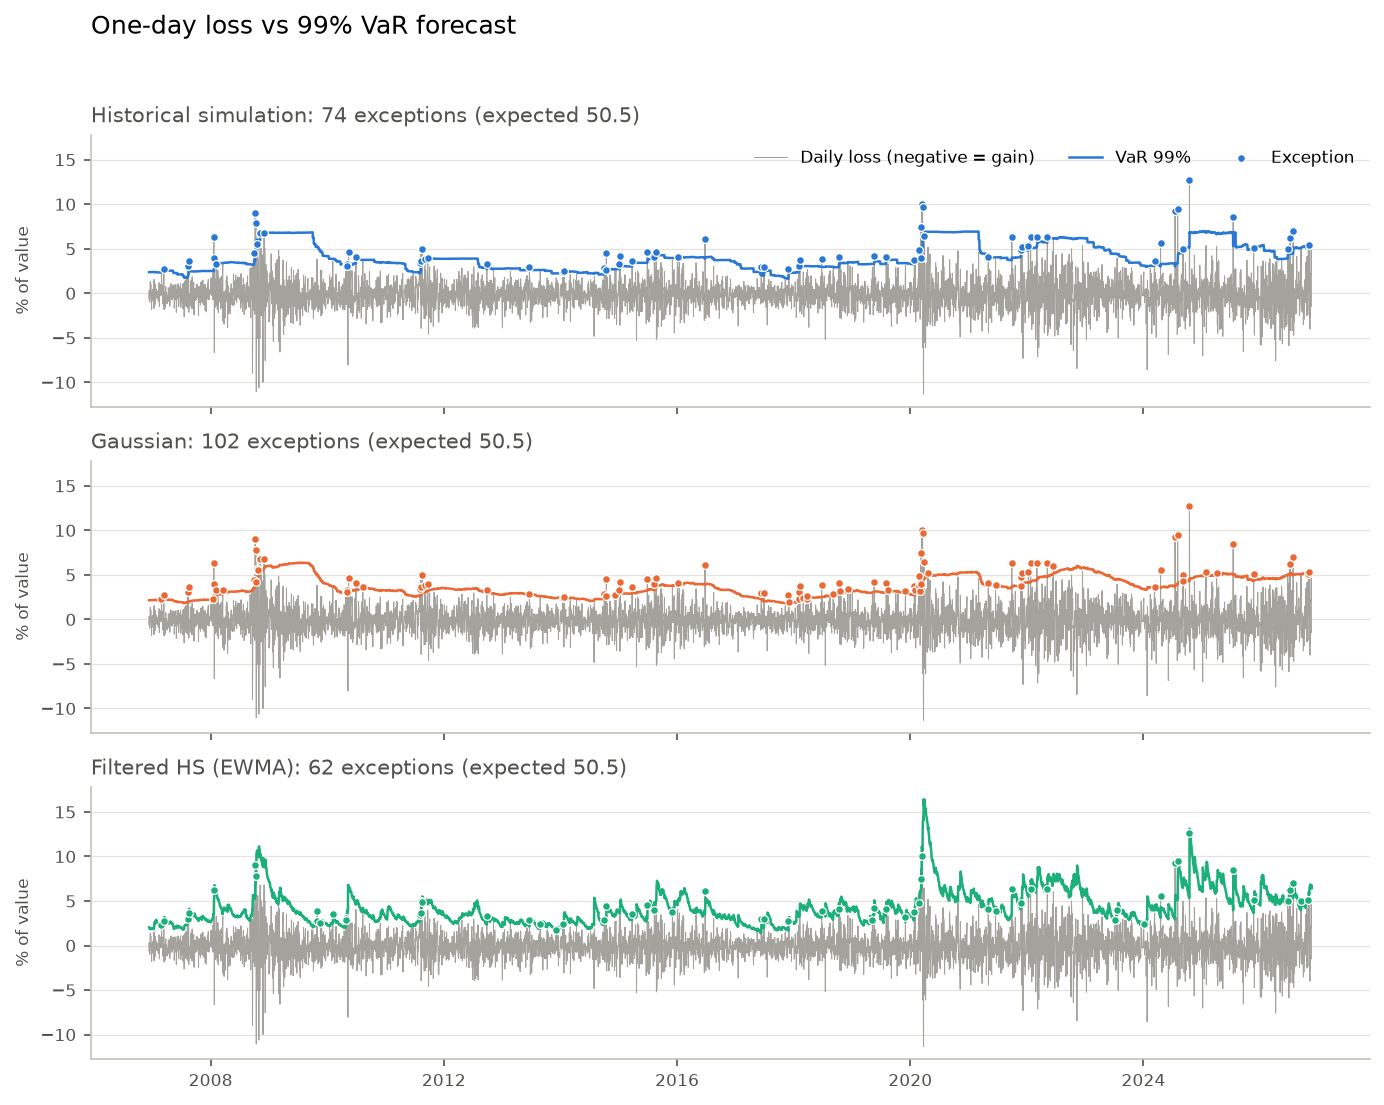
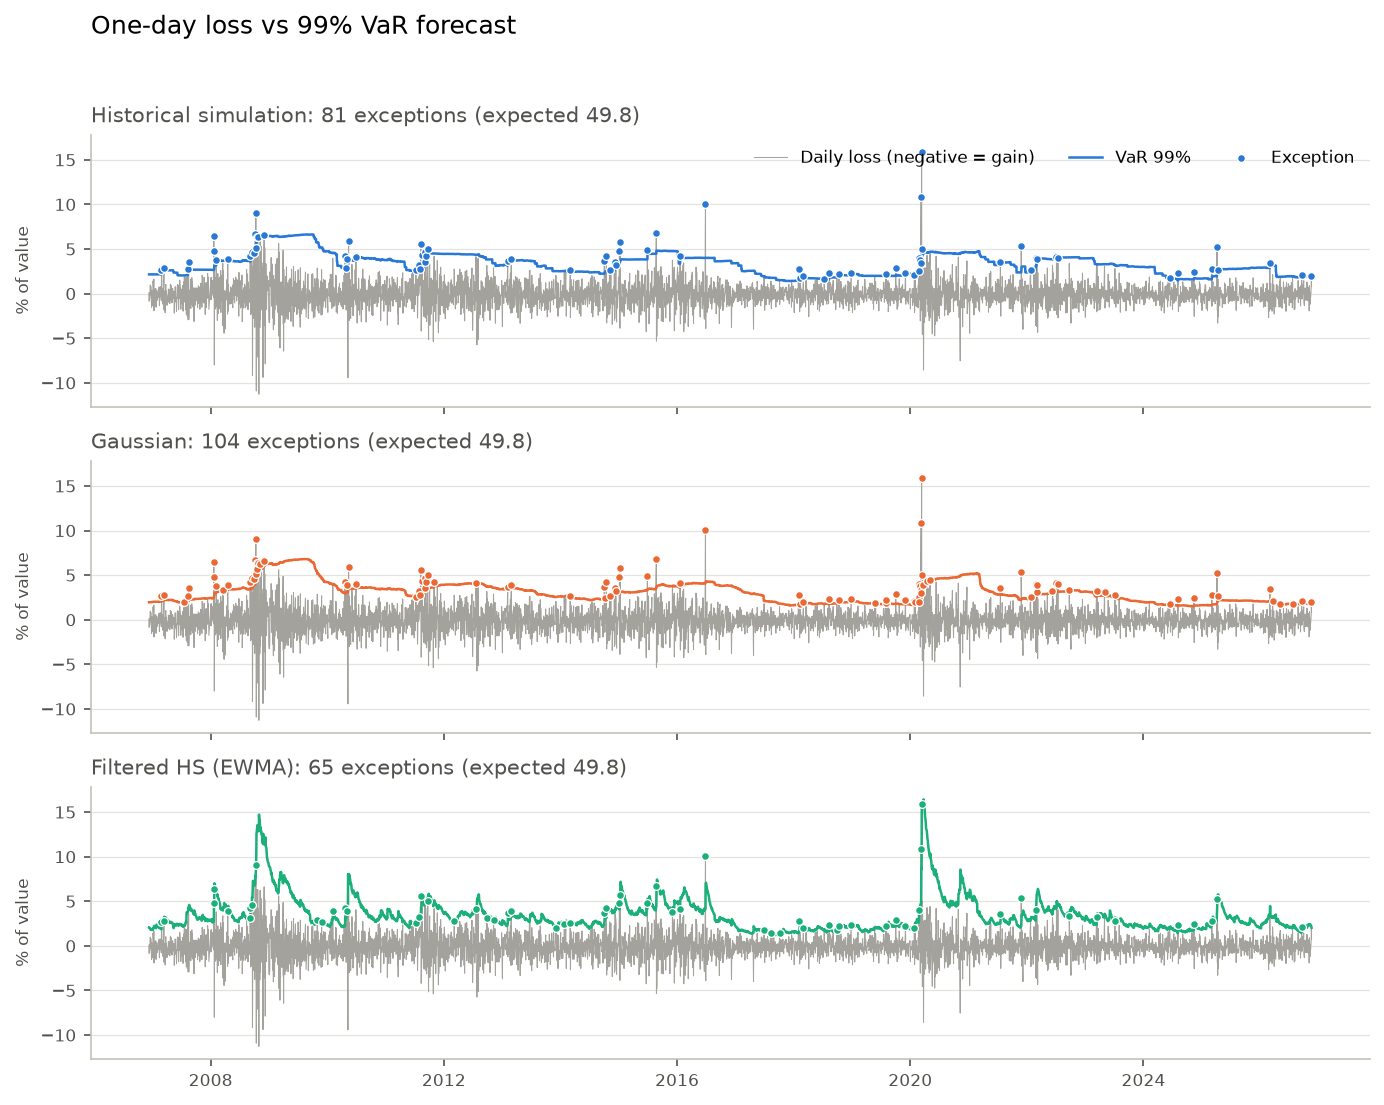
Update README and figures for the ex-ante portfolio

diff --git a/README.md b/README.md
@@ -10,8 +10,12 @@ historical and filtered historical simulation, EWMA volatility, and VaR backtest
 
 ## Scope
 
-- **Portfolio**: SAP, ASML, TotalEnergies, Santander, Enel (`SAP.DE`, `ASML.AS`, `TTE.PA`, `SAN.MC`,
-  `ENEL.MI`), buy-and-hold from equal initial weights, never rebalanced.
+- **Portfolio**: TotalEnergies, Deutsche Telekom, Santander, Nokia, Enel (`TTE.PA`, `DTE.DE`, `SAN.MC`,
+  `NOKIA.HE`, `ENEL.MI`), buy-and-hold from equal initial weights, never rebalanced.
+  The stocks were chosen ex ante, to avoid hindsight in the selection: going down the Euro Stoxx 50
+  ranking by market capitalisation at the end of 2004, a stock is kept unless its country or its
+  industry is already represented, until there are five (oil and gas, telecommunications, financials,
+  technology, utilities). Companies delisted since then are skipped (see Limitations).
 - **Measures**: one-day VaR at 99% and 97.5%, one-day ES at 97.5%.
 - **Methods**: historical simulation (HS), Gaussian (variance-covariance), filtered historical simulation (FHS) with EWMA volatility per stock.
 - **Backtests**: exception counts, Kupiec POF, Christoffersen independence and conditional
@@ -20,16 +24,17 @@ historical and filtered historical simulation, EWMA volatility, and VaR backtest
 ## Data
 
 Daily adjusted close prices from Yahoo Finance, 2005-01-03 to 2026-11-19 (dividends reinvested).
-Only dates on which all five exchanges traded are kept: 5,549 dates (63 dropped).
-One correction: ASML's 2012 synthetic share buyback (EUR 9.18 per share paid out with a 77:100 reverse split) is not adjusted by Yahoo and would show as a fictitious one-day loss; it is treated as a cash distribution reinvested in the stock.
+Only dates on which all five exchanges traded are kept: 5,483 dates (131 dropped).
+Daily moves larger than 15% were checked against market and company events: all are real, so no
+price is corrected.
 
 The returns show the two stylised facts the models must deal with:
 
-| | SAP | ASML | TTE | SAN | ENEL | Portfolio |
+| | TTE | DTE | SAN | NOKIA | ENEL | Portfolio |
 |---|---|---|---|---|---|---|
-| Excess kurtosis (fat tails) | 14.8 | 3.4 | 10.7 | 8.9 | 10.9 | 4.9 |
-| Autocorrelation of r, lag 1 | -0.01 | -0.01 | 0.00 | 0.01 | -0.03 | -0.02 |
-| Autocorrelation of r², lag 1 (volatility clustering) | 0.07 | 0.08 | 0.21 | 0.11 | 0.24 | 0.11 |
+| Excess kurtosis (fat tails) | 10.5 | 8.9 | 9.3 | 14.4 | 10.8 | 10.4 |
+| Autocorrelation of r, lag 1 | 0.00 | -0.02 | 0.01 | 0.00 | -0.04 | -0.03 |
+| Autocorrelation of r², lag 1 (volatility clustering) | 0.21 | 0.21 | 0.11 | 0.05 | 0.24 | 0.17 |
 
 Returns are almost uncorrelated, but their squares are not (i.i.d. band ±0.026): volatility comes
 in clusters.
@@ -53,22 +58,24 @@ All methods apply the scenarios to the current weights `w_{t-1}`:
   `σ_p = sqrt(wᵀΣw)`; `VaR = -μ_p + σ_p z_α`, `ES = -μ_p + σ_p φ(z_α)/(1-α)`, with α the confidence level, Φ and φ the standard normal CDF and density, and `z_α = Φ⁻¹(α)`.
 - **FHS**: EWMA variance per stock, `σ²_{i,t} = λσ²_{i,t-1} + (1-λ)r²_{i,t-1}`, λ = 0.94, zero mean, started from the mean squared return of the first 250 days (burn-in). Residuals `z_{i,s} = r_{i,s}/σ_{i,s}`, with σ_{i,s} the same EWMA on day s (data up to s-1), are rescaled to today's volatility, `x_{i,s} = z_{i,s}σ_{i,t}`, taking all stocks on the same day s together to keep their correlation; then HS on `X_s = Σ_i w_{i,t-1} x_{i,s}`.
 
-All methods are evaluated on the same 5,048 days (2006-12-11 to 2026-11-19), after the burn-in and the first window.
+All methods are evaluated on the same 4,982 days (2006-12-11 to 2026-11-19), after the burn-in and the first window.
 
 ## Results
 
 VaR and ES are reported as positive numbers, in % of portfolio value.
 
-| Method   | Exceptions 99% (exp. 50.5) | p POF 99% | p cc 99% | Exceptions 97.5% (exp. 126.2) | p cc 97.5% | Mean VaR 99% | Mean ES 97.5% | Days yellow / red |
+| Method   | Exceptions 99% (exp. 49.8) | p POF 99% | p cc 99% | Exceptions 97.5% (exp. 124.6) | p cc 97.5% | Mean VaR 99% | Mean ES 97.5% | Days yellow / red |
 | -------- | -------------------------- | --------- | -------- | ----------------------------- | ---------- | ------------ | ------------- | ----------------- |
-| HS       | 74                         | 0.002     | 0.008    | 169                           | 0.000      | 4.04%        | 4.08%         | 40.3% / 0.0%      |
-| Gaussian | 102                        | 0.000     | 0.000    | 165                           | 0.000      | 3.67%        | 3.68%         | 41.5% / 10.5%     |
-| FHS      | 62                         | 0.116     | 0.280    | 144                           | 0.245      | 4.26%        | 4.40%         | 12.3% / 0.0%      |
+| HS       | 81                         | 0.000     | 0.000    | 166                           | 0.000      | 3.29%        | 3.48%         | 34.9% / 5.7%      |
+| Gaussian | 104                        | 0.000     | 0.000    | 159                           | 0.000      | 3.03%        | 3.04%         | 28.5% / 15.5%     |
+| FHS      | 65                         | 0.039     | 0.066    | 136                           | 0.478      | 3.42%        | 3.54%         | 24.0% / 0.0%      |
 
 p POF = Kupiec proportion of failures (correct frequency, χ²(1)); p cc = Christoffersen conditional
 coverage (correct frequency and independence, χ²(2)). Traffic light: exceptions of the 99% VaR in
 the last 250 days (green 0-4, yellow 5-9, red ≥10), computed every day from the first full window.
-A method is rejected when p cc < 0.05 (`reject_cc` in the script output). `scripts/run_analysis.py` prints the full tables: final weights, statistics at lags 1, 5, 10,
+A method is rejected when p cc < 0.05 (`reject_cc` in the script output).
+
+`scripts/run_analysis.py` prints the full tables: final weights, statistics at lags 1, 5, 10,
 forecast statistics, all test statistics, exceptions per year and the current zone.
 
 ![Losses and 99% VaR](figures/losses_var.png)
@@ -81,20 +88,27 @@ forecast statistics, all test statistics, exceptions per year and the current zo
 
 ## Conclusions
 
-- **Gaussian: rejected.** Twice the expected 99% exceptions and 10.5% of days in the red zone.
+- **Gaussian: rejected.** Twice the expected 99% exceptions and 15.5% of days in the red zone.
   Thin tails underestimate extreme losses, and an equally weighted 250-day window reacts slowly (see figures).
 - **HS: rejected.** Fat tails are in the data, but the window still reacts slowly: VaR jumps only
-  after the losses and drops abruptly 250 days later, when they leave the window (October 2009, see figures).
-  At 99% both rejections come from the frequency (Kupiec); at 97.5% the exceptions also cluster
-  (independence p = 0.002 for HS, 0.000 for Gaussian).
-- **FHS: p cc above 0.05** at both levels (0.280 and 0.245). EWMA follows volatility clustering:
-  the 99% VaR reached 16.4% in March 2020 (see figures). The price is a higher average VaR and a strongly procyclical risk number.
-- ES 97.5% and VaR 99% are close under normality (2.338σ vs 2.326σ; Gaussian means 3.68% and 3.67%); FRTB uses ES 97.5% (MAR33.3) where Basel 2.5 used VaR 99%. With fat tails the gap is larger (FHS 4.40% vs 4.26%).
+  after the losses and falls in steps about 250 days later, when they leave the window (from October 2009, see figures).
+  Both methods have too many exceptions (Kupiec), and at 97.5% the exceptions also cluster
+  (independence p = 0.005 for HS, 0.000 for Gaussian; at 99% p = 0.054 and 0.002).
+- **FHS: not rejected (p cc above 0.05 at both levels), but borderline at 99%.** EWMA follows
+  volatility clustering: the 99% VaR reached 16.4% in March 2020 (see figures), and the method is
+  never in the red zone. At 99% Kupiec alone rejects (65 exceptions vs 49.8, p POF = 0.039), while
+  conditional coverage does not (p cc = 0.066): its statistic adds the independence term, small here
+  because the exceptions do not cluster (p ind = 0.280), and is compared with χ²(2) (5.99) instead of
+  χ²(1) (3.84), so the same excess of exceptions weighs less. The price is a higher average VaR and a
+  strongly procyclical risk number.
+- ES 97.5% and VaR 99% are close under normality (2.338σ vs 2.326σ; Gaussian means 3.04% and 3.03%); FRTB uses ES 97.5% (MAR33.3) where Basel 2.5 used VaR 99%. With fat tails the gap is larger (HS 3.48% vs 3.29%, FHS 3.54% vs 3.42%).
 
 ## Limitations
 
-- Survivorship bias: the stocks are today's large caps.
-- One linear equity portfolio; buy-and-hold concentrates it in ASML (83% at the last date); no cash flows.
+- Survivorship: companies delisted during the sample cannot be selected; here this changed nothing,
+  because the delisted candidates were already excluded by country or industry.
+- One linear equity portfolio of five stocks; buy-and-hold lets the weights drift (TotalEnergies 30%,
+  Nokia 5% at the last date); no cash flows.
 - Hypothetical P&L with static positions, not actual P&L.
 
 ## Reproduce
